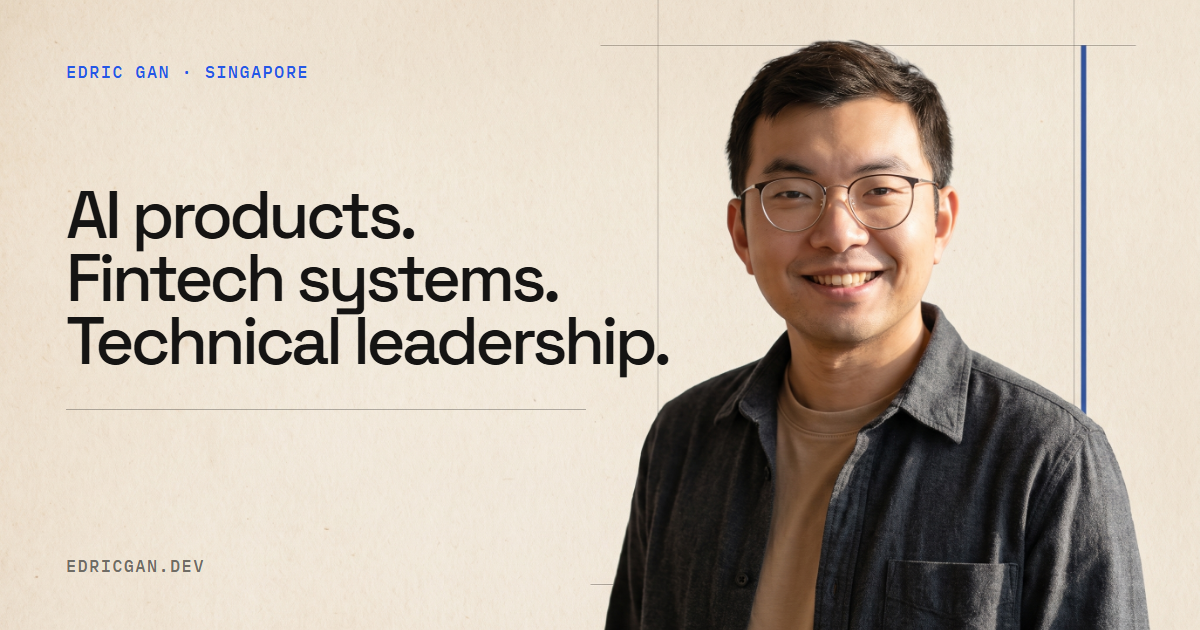
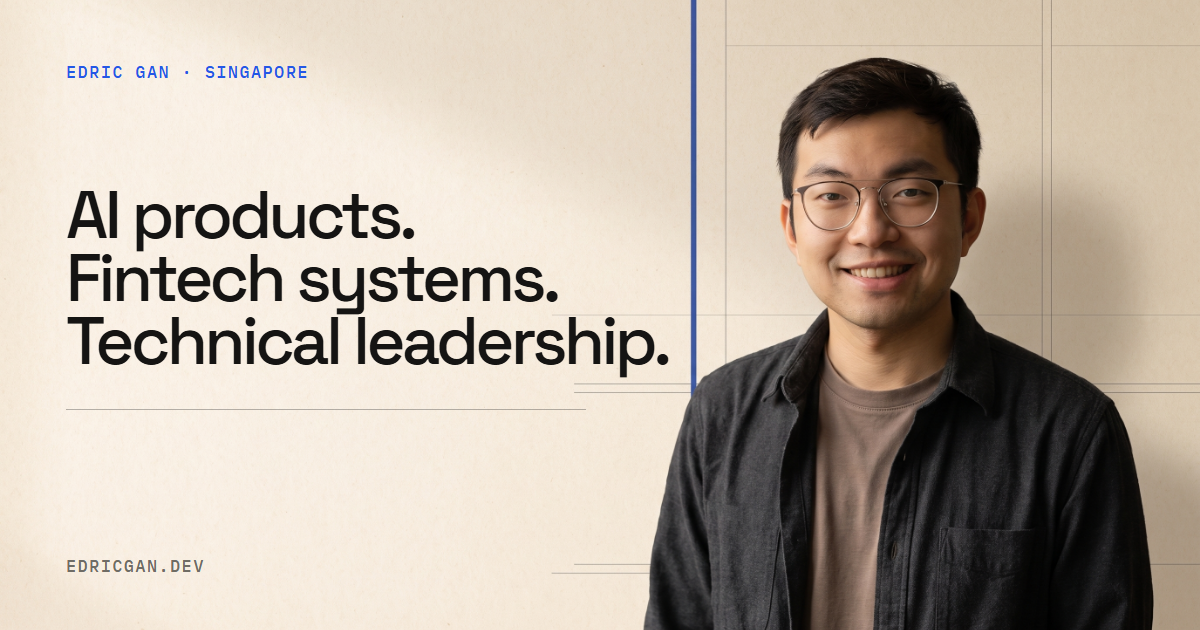
Refine homepage identity and leadership story

diff --git a/scripts/build.js b/scripts/build.js
@@ -57,7 +57,7 @@ function nav(active) {
     ['writing', '/articles/', 'Writing']
   ];
   return '<header class="masthead"><div class="wide masthead__inner">' +
-    '<a class="brand" href="/" aria-label="Edric Gan, home"><img src="/assets/profile.jpg" alt="" width="32" height="32"><strong>Edric Gan</strong></a>' +
+    '<a class="brand" href="/" aria-label="Edric Gan, home"><img src="/assets/eg-monogram.svg" alt="" width="32" height="32"><strong>Edric Gan</strong></a>' +
     '<button class="nav-toggle" type="button" data-nav-toggle aria-expanded="false" aria-controls="site-nav">Menu</button>' +
     '<nav class="nav" id="site-nav" data-nav aria-label="Main navigation">' +
     items.map(function (item) {
@@ -138,18 +138,19 @@ const personLd = {
   sameAs: ['https://x.com/edricgsh', 'https://www.linkedin.com/in/edricgan/', 'https://github.com/edricgsh']
 };
 
-const home = '<div class="col"><section class="hero">' +
-  '<p class="eyebrow">Builder · Tech lead · Singapore</p>' +
+const home = '<div class="wide home"><section class="hero hero--portrait">' +
+  '<div class="hero__copy"><p class="eyebrow">Builder · Tech lead · Singapore</p>' +
   '<h1>I build useful products. Today, most of them use AI.</h1>' +
   '<p class="hero__lede">I turn new ideas into working systems. I also help engineers grow into senior roles.</p>' +
   '<p class="hero__note">Eight years across fintech, payments, Web3, and product engineering. I built products at Visa, Ant Group, Immutable, and startups.</p>' +
-  '<div class="hero__actions"><a class="btn btn--primary" href="/projects/">See what I built</a><a class="btn btn--secondary" href="/coaching/">Work with me</a></div>' +
-  '<dl class="metrics"><div class="metric"><dt>Experience</dt><dd>8 years</dd></div><div class="metric"><dt>NFTs moved</dt><dd>250K+</dd></div><div class="metric"><dt>Daily payments</dt><dd>1M+</dd></div><div class="metric"><dt>People trained</dt><dd>100+</dd></div></dl>' +
-  '</section>' +
+  '<div class="hero__actions"><a class="btn btn--primary" href="/projects/">See what I built</a><a class="btn btn--secondary" href="/coaching/">Work with me</a></div></div>' +
+  '<figure class="hero__portrait"><img src="/assets/hero-portrait.png" alt="Portrait of Edric Gan" width="760" height="950" fetchpriority="high"></figure>' +
+  '<dl class="metrics"><div class="metric"><dt>Experience</dt><dd>8 years</dd></div><div class="metric"><dt>High-impact systems</dt><dd>6</dd></div><div class="metric"><dt>Engineers led</dt><dd>16+</dd></div><div class="metric"><dt>People trained</dt><dd>100+</dd></div></dl>' +
+  '</section><div class="home__content">' +
   '<section class="section">' + sectionHead('01', 'Now') + '<ul class="rows">' +
-    row('AI Tech Advisor for a social media platform <span class="live" aria-label="Live"></span>', 'It connects to four major social platforms. LangGraph and n8n coordinate AI, automation, image, and video workflows.', '', 'LANGGRAPH · N8N · HIGGSFIELD · FAL · GROK · NANO BANANA') +
-    row('Lingooso <span class="live" aria-label="Live"></span>', 'It turns YouTube videos into lessons. AI creates useful practice and engaging shorts for small, consistent learning sessions.', '', 'AI PRACTICE · LEARNING SHORTS · SPACED REPETITION', 'https://www.lingooso.com/') +
-    row('Coaching engineers', 'I have coached engineers and trained more than 100 adult learners. I focus on system design, backend work, AI, and career growth.', '', '', '/coaching/') +
+    row('Tech Lead at a fintech company <span class="live" aria-label="Current role"></span>', 'I lead a six-person team and work with the card-issuing transactions team on systems that process millions of dollars each month.', '', '6-PERSON TEAM · CARD ISSUING · HIGH-VOLUME TRANSACTIONS', '/work/') +
+    row('AI Tech Advisor', 'I have advised four companies working on social media AI, Web3 VTuber tools, real-time speech synthesis, and software delivery. My work covered AI architecture, CI/CD, and infrastructure hardening.', '', 'AI ARCHITECTURE · VTUBER SYSTEMS · SPEECH SYNTHESIS · CI/CD · INFRASTRUCTURE') +
+    row('Coaching and training engineers', 'I have coached engineers and trained more than 100 adult learners. I focus on system design, backend work, AI, and career growth.', '', '', '/coaching/') +
   '</ul></section>' +
   '<section class="section">' + sectionHead('02', 'Selected projects', '/projects/', 'All projects') + '<ul class="rows">' +
     row('AI Tech Advisor', 'I advise the team on agent design, automation, social integrations, and multi-provider media pipelines.', 'LIVE · 4 MAJOR PLATFORMS', 'LANGGRAPH · N8N · MULTI-PROVIDER IMAGES · VIDEO GENERATION', '/projects/#ai-platform') +
@@ -167,13 +168,13 @@ const home = '<div class="col"><section class="hero">' +
     row('Technical training', 'I trained 100+ adult learners across four cohorts in React, Java, CI/CD, and information security.', 'LEAD INSTRUCTOR') +
   '</ul></section>' +
   '<section class="section">' + sectionHead('05', 'Writing', '/articles/', 'All 8 articles') + articleList(4) + '</section>' +
-  '<section class="contact-block" id="contact"><div class="contact-block__inner"><p class="eyebrow">Work together</p><h2>Building or backing an ambitious product?</h2><p>I work with founders, investors, and engineering teams to assess technical opportunities, shape AI products, and turn complex plans into working systems.</p><div class="actions"><a class="btn btn--primary" href="mailto:edricgan.44@gmail.com">Discuss an opportunity</a><a class="btn btn--secondary" href="/projects/">See selected work</a></div></div></section></div>';
+  '<section class="contact-block" id="contact"><div class="contact-block__inner"><p class="eyebrow">Work together</p><h2>Building or backing an ambitious product?</h2><p>I work with founders, investors, and engineering teams to assess technical opportunities, shape AI products, and turn complex plans into working systems.</p><div class="actions"><a class="btn btn--primary" href="mailto:edricgan.44@gmail.com">Discuss an opportunity</a><a class="btn btn--secondary" href="/projects/">See selected work</a></div></div></section></div></div>';
 
 write('/', shell({ title: 'Edric Gan', route: '/', active: '', description: 'Tech lead and AI advisor with eight years across fintech, payments, Web3, and product engineering. Building useful products and helping engineers grow.', socialTitle: 'Edric Gan — AI Product Builder and Fintech Tech Lead', body: home, jsonLd: personLd }));
 
 const projects = '<div class="wide"><header class="page-head prose-width"><p class="eyebrow">Projects</p><h1>Selected products and systems.</h1><p>I work across product, backend, frontend, AI, and delivery. These projects show the range.</p></header>' +
   '<section class="section case-grid">' +
-  '<article class="case-study case-study--featured" id="ai-platform"><div class="case-study__copy"><p class="eyebrow">Current · AI Tech Advisor</p><h2>AI platform for social media</h2><p class="case-study__dek">One workflow to plan, create, review, and publish social content.</p><ul class="case-study__facts"><li><strong>4</strong><span>major social platforms</span></li><li><strong>4+</strong><span>image providers</span></li><li><strong>Image + video</strong><span>generation pipelines</span></li></ul><div class="case-study__body"><p>I advise the team on AI architecture, agent workflows, product integrations, and delivery.</p><ul class="impact-list"><li><strong>Agent orchestration:</strong> LangGraph manages multi-step content generation, tool use, and review flows.</li><li><strong>Workflow automation:</strong> n8n connects services and runs repeat jobs outside the main application.</li><li><strong>Media routing:</strong> Higgsfield, fal, Grok, Nano Banana, and other providers support image work. A separate pipeline handles video generation.</li><li><strong>Publishing:</strong> The product connects with Facebook, Instagram, X, and LinkedIn.</li><li><strong>Marketing workflow:</strong> Brand context, drafts, approvals, scheduling, and analytics live in one place.</li></ul><p>This architecture reduces manual marketing work. It also lets the team compare models, control costs, and add providers without rebuilding the product.</p></div><div class="stack">LANGGRAPH · N8N · NEXT.JS · VERCEL · HIGGSFIELD · FAL · GROK · NANO BANANA · VIDEO GENERATION</div></div></article>' +
+  '<article class="case-study case-study--featured" id="ai-platform"><div class="case-study__copy"><p class="eyebrow">AI Tech Advisor</p><h2>AI platform for social media</h2><p class="case-study__dek">One workflow to plan, create, review, and publish social content.</p><ul class="case-study__facts"><li><strong>4</strong><span>major social platforms</span></li><li><strong>4+</strong><span>image providers</span></li><li><strong>Image + video</strong><span>generation pipelines</span></li></ul><div class="case-study__body"><p>I advise the team on AI architecture, agent workflows, product integrations, and delivery.</p><ul class="impact-list"><li><strong>Agent orchestration:</strong> LangGraph manages multi-step content generation, tool use, and review flows.</li><li><strong>Workflow automation:</strong> n8n connects services and runs repeat jobs outside the main application.</li><li><strong>Media routing:</strong> Higgsfield, fal, Grok, Nano Banana, and other providers support image work. A separate pipeline handles video generation.</li><li><strong>Publishing:</strong> The product connects with Facebook, Instagram, X, and LinkedIn.</li><li><strong>Marketing workflow:</strong> Brand context, drafts, approvals, scheduling, and analytics live in one place.</li></ul><p>This architecture reduces manual marketing work. It also lets the team compare models, control costs, and add providers without rebuilding the product.</p></div><div class="stack">LANGGRAPH · N8N · NEXT.JS · VERCEL · HIGGSFIELD · FAL · GROK · NANO BANANA · VIDEO GENERATION</div></div></article>' +
   '<article class="case-study" id="lingooso"><div><p class="eyebrow">Current · Live</p><h2>Lingooso</h2><p class="case-study__dek">Turn any YouTube video into practice you can use every day.</p><ul class="case-study__facts"><li><strong>60+</strong><span>early users</span></li><li><strong>10</strong><span>languages</span></li><li><strong>AI</strong><span>practice and shorts</span></li></ul><div class="case-study__body"><p>Lingooso creates vocabulary, flashcards, quizzes, synced reading, and short practice videos from real content. AI explains each word in context and generates useful exercises.</p><p>Engaging, bite-sized shorts help learners practice often without a long study session. Spaced repetition brings each word back at the right time.</p><p>More than 60 early users are testing the product and shaping what comes next.</p></div><div class="actions"><a class="btn btn--secondary" href="https://www.lingooso.com/">Visit Lingooso</a></div><div class="stack">AI PRACTICE · LEARNING SHORTS · VIDEO PROCESSING · SM-2 · TEXT TO SPEECH · ANALYTICS</div></div><figure class="case-study__media"><img src="/assets/lingooso.jpg" alt="Lingooso language lesson product preview" loading="lazy"><figcaption>Language lessons built from YouTube content.</figcaption></figure></article>' +
   '<article class="case-study" id="teammates"><div><p class="eyebrow">Open source</p><h2>TEAMMATES</h2><p class="case-study__dek">A peer feedback platform used by universities.</p><div class="case-study__body"><p>I contributed to a mature open-source product with a large user base and an established engineering process.</p><p>The work strengthened my skills in shared code ownership, review, and safe changes.</p></div><div class="actions"><a class="btn btn--secondary" href="https://github.com/TEAMMATES/teammates">View the repository</a></div></div><figure class="case-study__media"><img src="/assets/teammates.png" alt="TEAMMATES open-source project" loading="lazy"><figcaption>Peer feedback for teaching teams and students.</figcaption></figure></article>' +
   '<article class="case-study" id="data-science"><div><p class="eyebrow">Data science</p><h2>Prediction and spam detection</h2><p class="case-study__dek">Three projects that move from data checks to measured model results.</p><ul class="case-study__facts"><li><strong>15%</strong><span>over baseline</span></li><li><strong>3</strong><span>stacked models</span></li><li><strong>2</strong><span>spam approaches</span></li></ul><div class="case-study__body"><p>The flat-price model uses MLflow and a stack of random forest, Elastic Net, and XGBoost. It beat the baseline by 15%.</p><p>The spam work compares classic machine learning with GloVe embeddings and a bidirectional GRU.</p></div><div class="actions"><a class="btn btn--secondary" href="/articles/singapore-flat-price-predictor/">Read the case study</a></div></div><figure class="case-study__media"><img src="/assets/hdb.jpg" alt="Singapore flat price prediction interface" loading="lazy"><figcaption>Experiment tracking and model stacking for flat prices.</figcaption></figure></article>' +
@@ -194,7 +195,7 @@ write('work', shell({ title: 'Engineering Leadership and Fintech Experience', ro
 
 const coaching = '<div class="col"><header class="page-head"><p class="eyebrow">Coaching & training</p><h1>Clear steps for hard technical and career problems.</h1><p>I help engineers move up. I also help teams build stronger backend, cloud, and delivery skills.</p><dl class="metrics"><div class="metric"><dt>People trained</dt><dd>100+</dd></div><div class="metric"><dt>Cohorts taught</dt><dd>4</dd></div><div class="metric"><dt>Longest coaching</dt><dd>2 years</dd></div><div class="metric"><dt>Outcomes</dt><dd>New roles + promotions</dd></div></dl></header>' +
   '<section class="section"><div class="service-grid"><article class="service"><span class="label">For engineers</span><h2>One-to-one coaching</h2><p>A plan built around your role, gaps, and next step.</p><ul><li>System design and backend engineering</li><li>AI agents and product delivery</li><li>Interview practice and job search</li><li>Leadership and the move to senior roles</li><li>One 60-minute call and ongoing chat</li></ul><div class="actions"><a class="btn btn--primary" href="https://mentorcruise.com/mentor/edricgan/apply/?plan=7b315a6f08">See coaching options</a></div></article>' +
-  '<article class="service"><span class="label">For teams</span><h2>Training and technical advice</h2><p>Practical sessions based on the systems your team has to run.</p><ul><li>Backend performance and system design</li><li>Cloud, Docker, Kubernetes, and CI/CD</li><li>Test-driven development</li><li>AI product strategy and delivery</li><li>Delivery process for growing teams</li></ul><div class="actions"><a class="btn btn--secondary" href="mailto:edricgan.44@gmail.com">Ask about team work</a></div></article></div></section>' +
+  '<article class="service"><span class="label">For teams</span><h2>Training and technical advice</h2><p>Practical sessions based on the systems your team has to run.</p><ul><li>Backend performance and system design</li><li>Cloud, Docker, Kubernetes, and CI/CD</li><li>Test-driven development</li><li>AI product strategy and delivery</li><li>Delivery process for growing teams</li></ul><div class="actions"><a class="btn btn--secondary" href="https://mentorcruise.com/mentor/edricgan/apply/?plan=7b315a6f08">Ask about team work</a></div></article></div></section>' +
   '<section class="section">' + sectionHead('01', 'Results') + '<ul class="rows"><li><div class="row"><div><h3>Landed a role at Ant Group International</h3><p>One engineer reached this goal after a year of backend work and interview practice.</p><blockquote class="quote">“Edric structured learning projects that helped me grasp core concepts.”<cite>— Ying Xuan, coached for one year</cite></blockquote></div><span class="meta">CAREER MOVE</span></div></li>' +
   row('Moved from QA into software engineering', 'A two-year plan used code reviews, small projects, and interview practice.', 'ROLE CHANGE') +
   row('100+ adult learners trained', 'Courses covered React, Java, CI/CD, information security, and career skills.', '4 COHORTS') +

diff --git a/src/styles.css b/src/styles.css
@@ -61,6 +61,18 @@ button, input { font: inherit; }
 .nav-toggle { display: none; color: var(--ink); cursor: pointer; }
 
 .hero { padding-top: 78px; }
+.hero--portrait {
+  display: grid; grid-template-columns: minmax(0, 1.25fr) minmax(300px, .75fr);
+  gap: 44px 64px; align-items: center;
+}
+.hero__copy, .hero__portrait { min-width: 0; }
+.hero--portrait .metrics { grid-column: 1 / -1; margin-top: 0; }
+.hero__portrait { margin: 0; align-self: stretch; }
+.hero__portrait img {
+  display: block; width: 100%; height: 100%; min-height: 500px; object-fit: cover;
+  box-shadow: var(--shadow-line);
+}
+.home__content { max-width: var(--read); margin-inline: auto; }
 .eyebrow, .meta, .label, .stack, .section-head, .metric dt, .route-back {
   font-family: var(--mono); font-variant-numeric: tabular-nums;
 }
@@ -231,6 +243,10 @@ button, input { font: inherit; }
   .nav[data-open] { display: grid; gap: 8px; }
   .nav a { padding: 9px 0; }
   .hero { padding-top: 54px; }
+  .hero--portrait { grid-template-columns: minmax(0, 1fr); gap: 34px; }
+  .hero--portrait .metrics { margin-top: 2px; }
+  .hero__portrait { max-height: 520px; }
+  .hero__portrait img { min-height: 0; max-height: 520px; aspect-ratio: 4 / 5; object-position: center 28%; }
   .hero h1, .page-head h1 { max-width: none; font-size: 34px; }
   .hero__lede { font-size: 18px; }
   .metrics { grid-template-columns: 1fr 1fr; }
